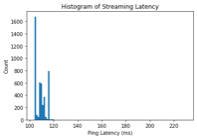
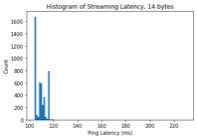
Forgot to commit oops!

Changed region(s): [[0.2132, 0.0288, 0.8832, 0.0863]]

diff --git a/index.html b/index.html
@@ -332,7 +332,7 @@ digitalWrite(lightPin, LOW);
                                         <div class="divider-custom-line"></div>
                                     </div>
                                     <!-- Portfolio Modal - Image-->
-                                    <img class="img-fluid rounded mb-5" src="assets/img/portfolio/cake.png" alt="" />
+                                    <img class="img-fluid rounded mb-5" src="assets/img/portfolio/arduinobluetooth.jpg" alt="" />
                                     <h5>Objective</h5>
                                     <p class="text-justify">The objective of this lab was to gain experience working with the Bluetooth module on the Arduino Artemis Nano.  This lab involved sending and receiving packets of data between the Arduino and base computer, reading the output, and measuring latency.  </p>
                                     <h5>Connecting to the Artemis Board</h5>
@@ -347,27 +347,54 @@ digitalWrite(lightPin, LOW);
                                     <h5>Request a Float</h5>
                                     <p class="text-justify">Looking through the robot command framework, I discovered how I could format data types and send them from the Artemis Nano to the computer.  At first, I was unsuccessful, but I learned that the byte size must be 2 bytes greater than the size of the byte type, which for a float, would be a total of 6 bytes.  I sent over the float, 3.14159265354, and received a similar, but not quite exact return.  It is possible that the data is being corrupted or not parsed correctly.  </p>
                                     <img class="img-fluid rounded mb-5" src="assets/img/portfolio/requestfloat.png" alt="" />
-                                    <pre><code><p class="text-left"></p><pre><code><p class="text-left">uint32_t currentFreq = getLoudest();
-            // Light the LED if loudest frequency is above threshold
-            if (currentFreq > lightFreq)
-            {
-            digitalWrite(lightPin, HIGH);
-            delay(10);
-            digitalWrite(lightPin, LOW);  
-}</p></code></pre></code></pre>
+                                    </p><pre><code><p class="text-left">case REQ_FLOAT:
+Serial.println("Going to send a float");
+//TODO: Put a float (perhaps pi) into a command response and send it.
+res_cmd->command_type = GIVE_FLOAT;
+((float *)res_cmd->data)[0] = 3.14159265354f;
+amdtpsSendData((uint8_t *)res_cmd, 6);
+break;
+}</p></code></pre>
+                                    <p class="text-justify"> Below demonstrates the ping code running:</p>
+                                    <iframe class="embed-responsive video" height="315" src="https://www.youtube.com/embed/GtLQOjt960w" frameborder="0" allow="accelerometer; autoplay; clipboard-write; encrypted-media; gyroscope; picture-in-picture" allowfullscreen></iframe>
                                     <h5>Test the Data Rate</h5>
-                                    <p class="text-justify">Now, we modified the bytestream section of the code to include sending and receiving a series of larger packets of data (a 32-bit and 64-bit integer).  Using some data logging tools, we can see how the Bluetooth module handles this data and whether or not any packets are lost.</p>
+                                    <p class="text-justify">Now, we modified the bytestream section of the code to include sending and receiving a packets of data. Using some data logging tools, we can see how the Bluetooth module handles this data and whether or not any packets are lost.  I used the largest possible 32-bit integer (2^32 – 1) and the largest possible 64-bit integer (2^64 – 1) to fill these values.  The latency, found by subtracting the reported times between transmissions in the serial monitor, was averaged and plotted over time and in a histogram.  I calculated the percentage of dropped packets by comparing the total number of packets received on the computer (in the linux terminal) and the number of packets sent from the Arduino, which is reported in the serial monitor.</p>
+                                    <p class="text-justify">The code below demonstrates how data was created and packaged into a data packet.  We also used the unpack function to display this package as a human-readable decimal number.  Special attention is necessary for the byte size, as the byte size of the integers, package, and unpacked must all be the same size.</p>
+                                    </p><pre><code><p class="text-left">if (bytestream_active)
+{
+res_cmd->command_type = BYTESTREAM_TX;
+res_cmd->length = 54;
+//TODO: Put an example of a 32-bit integer and a 64-bit integer
+//for the stream. Be sure to add a corresponding case in the
+//python program.
+// Serial.printf("Stream %d \n", bytestream_active);
+uint32_t bit_32 = 2147483648;
+uint64_t bit_64 = 9223372036854775806;
+memcpy(res_cmd->data,&bit_32,4);
+memcpy(res_cmd->data+4,&bit_64,8);
+memcpy(res_cmd->data+12,&bit_64,8);
+memcpy(res_cmd->data+20,&bit_64,8);
+memcpy(res_cmd->data+28,&bit_64,8);
+memcpy(res_cmd->data+36,&bit_64,8);
+memcpy(res_cmd->data+42,&bit_64,8);
+amdtpsSendData((uint8_t *)res_cmd, 54);
+
+// Log time
+long t = micros();
+Serial.printf("Package: %3d, Time: %3d\n",package,t);
+package++;  </p></code></pre>
+                             </p><pre><code><p class="text-left"># Unpack from an example stream that transmits a 2-byte and a
+# 4-byte integer as quickly as possible, both little-endian.
+if (code == Commands.BYTESTREAM_TX.value):
+print(unpack("&lt;IQQQQQQ",data));</p></code></pre>   
                                     <img class="img-fluid rounded mb-5" src="assets/img/portfolio/dataratehisto.png" alt="" />  
                                     <img class="img-fluid rounded mb-5" src="assets/img/portfolio/dataratetime.png" alt="" />
-                                    <p class="text-justify">From the first test, a smaller data set of 14 bytes per package, we can see that the average latency is 108.986 ms.  40.102% of the packets were dropped, which is not a good result.</p>
-                                    <pre><code><p class="text-left"></p><pre><code><p class="text-left"><pre><code><p class="text-left"></p><pre><code><p class="text-left">uint32_t currentFreq = getLoudest();
-                    // Light the LED if loudest frequency is above threshold
-                    if (currentFreq > lightFreq)
-                    {
-                    digitalWrite(lightPin, HIGH);
-                    delay(10);
-                    digitalWrite(lightPin, LOW);  
-            }</p></code></pre></code></pre></p></code></pre></code></pre>
+                                    <p class="text-justify">From the first test, a smaller data consists of one 32-bit and one 64-bit integer, for a total of 14 bytes per package.  We can see that the average latency is 108.986 ms, and 40.102% of the packets were dropped, which is not a good result.</p>
+                                    <img class="img-fluid rounded mb-5" src="assets/img/portfolio/dataratehisto-2.png" alt="" />  
+                                    <img class="img-fluid rounded mb-5" src="assets/img/portfolio/dataratetime-2.png" alt="" />
+                                    <p class="text-justify">In the second test, a larger data set consists of one 32-bit and six 64-bit integers, for a total of 54 bytes per package.  We can see that the average latency is approximately equivalent at 107.053 ms.  However, the percentage of packets dropped increased greatly to 70.091%, which means much data was lost.  This is expected, as larger packets of data have a higher chance of being corrupted or being lost.  However, this may be a problem, as file sizes sent over Bluetooth are likely to be much bigger than 54 bytes, and can contain significant data loss without intelligent processing.</p>
+                                    <p class="text-justify">Below demonstrates the send and recieve dialog windows while the program is running:</p>
+                                    <iframe class="embed-responsive video" height="315" src="https://www.youtube.com/embed/Cad9vYuJ9g8" frameborder="0" allow="accelerometer; autoplay; clipboard-write; encrypted-media; gyroscope; picture-in-picture" allowfullscreen></iframe>
                                     <button class="btn btn-primary" data-dismiss="modal">
                                         <i class="fas fa-times fa-fw"></i>
                                         Close Window

diff --git a/labs/Lab2/main.py b/labs/Lab2/main.py
@@ -60,7 +60,7 @@ async def robotTest(loop):
             # Unpack from an example stream that transmits a 2-byte and a
             # 4-byte integer as quickly as possible, both little-endian.
             if (code == Commands.BYTESTREAM_TX.value):
-                print(unpack("<Iq",data));
+                print(unpack("<IQQQQQQ",data));
 
     async def checkMessages():
         while True:
@@ -98,7 +98,7 @@ async def robotTest(loop):
         # await client.write_gatt_char(Descriptors["RX_CHAR_UUID"].value, msg)
 
         async def myRobotTasks():
-            pass
+            # pass
 
             # await theRobot.ping()
 
@@ -109,7 +109,7 @@ async def robotTest(loop):
             #     await theRobot.sendMessage("Testing message")
             #     await asyncio.sleep(1)
 
-            # await theRobot.testByteStream(25)
+            await theRobot.testByteStream(25)
             
             # await theRobot.sendCommand(Commands.START_BYTESTREAM_TX)
 
